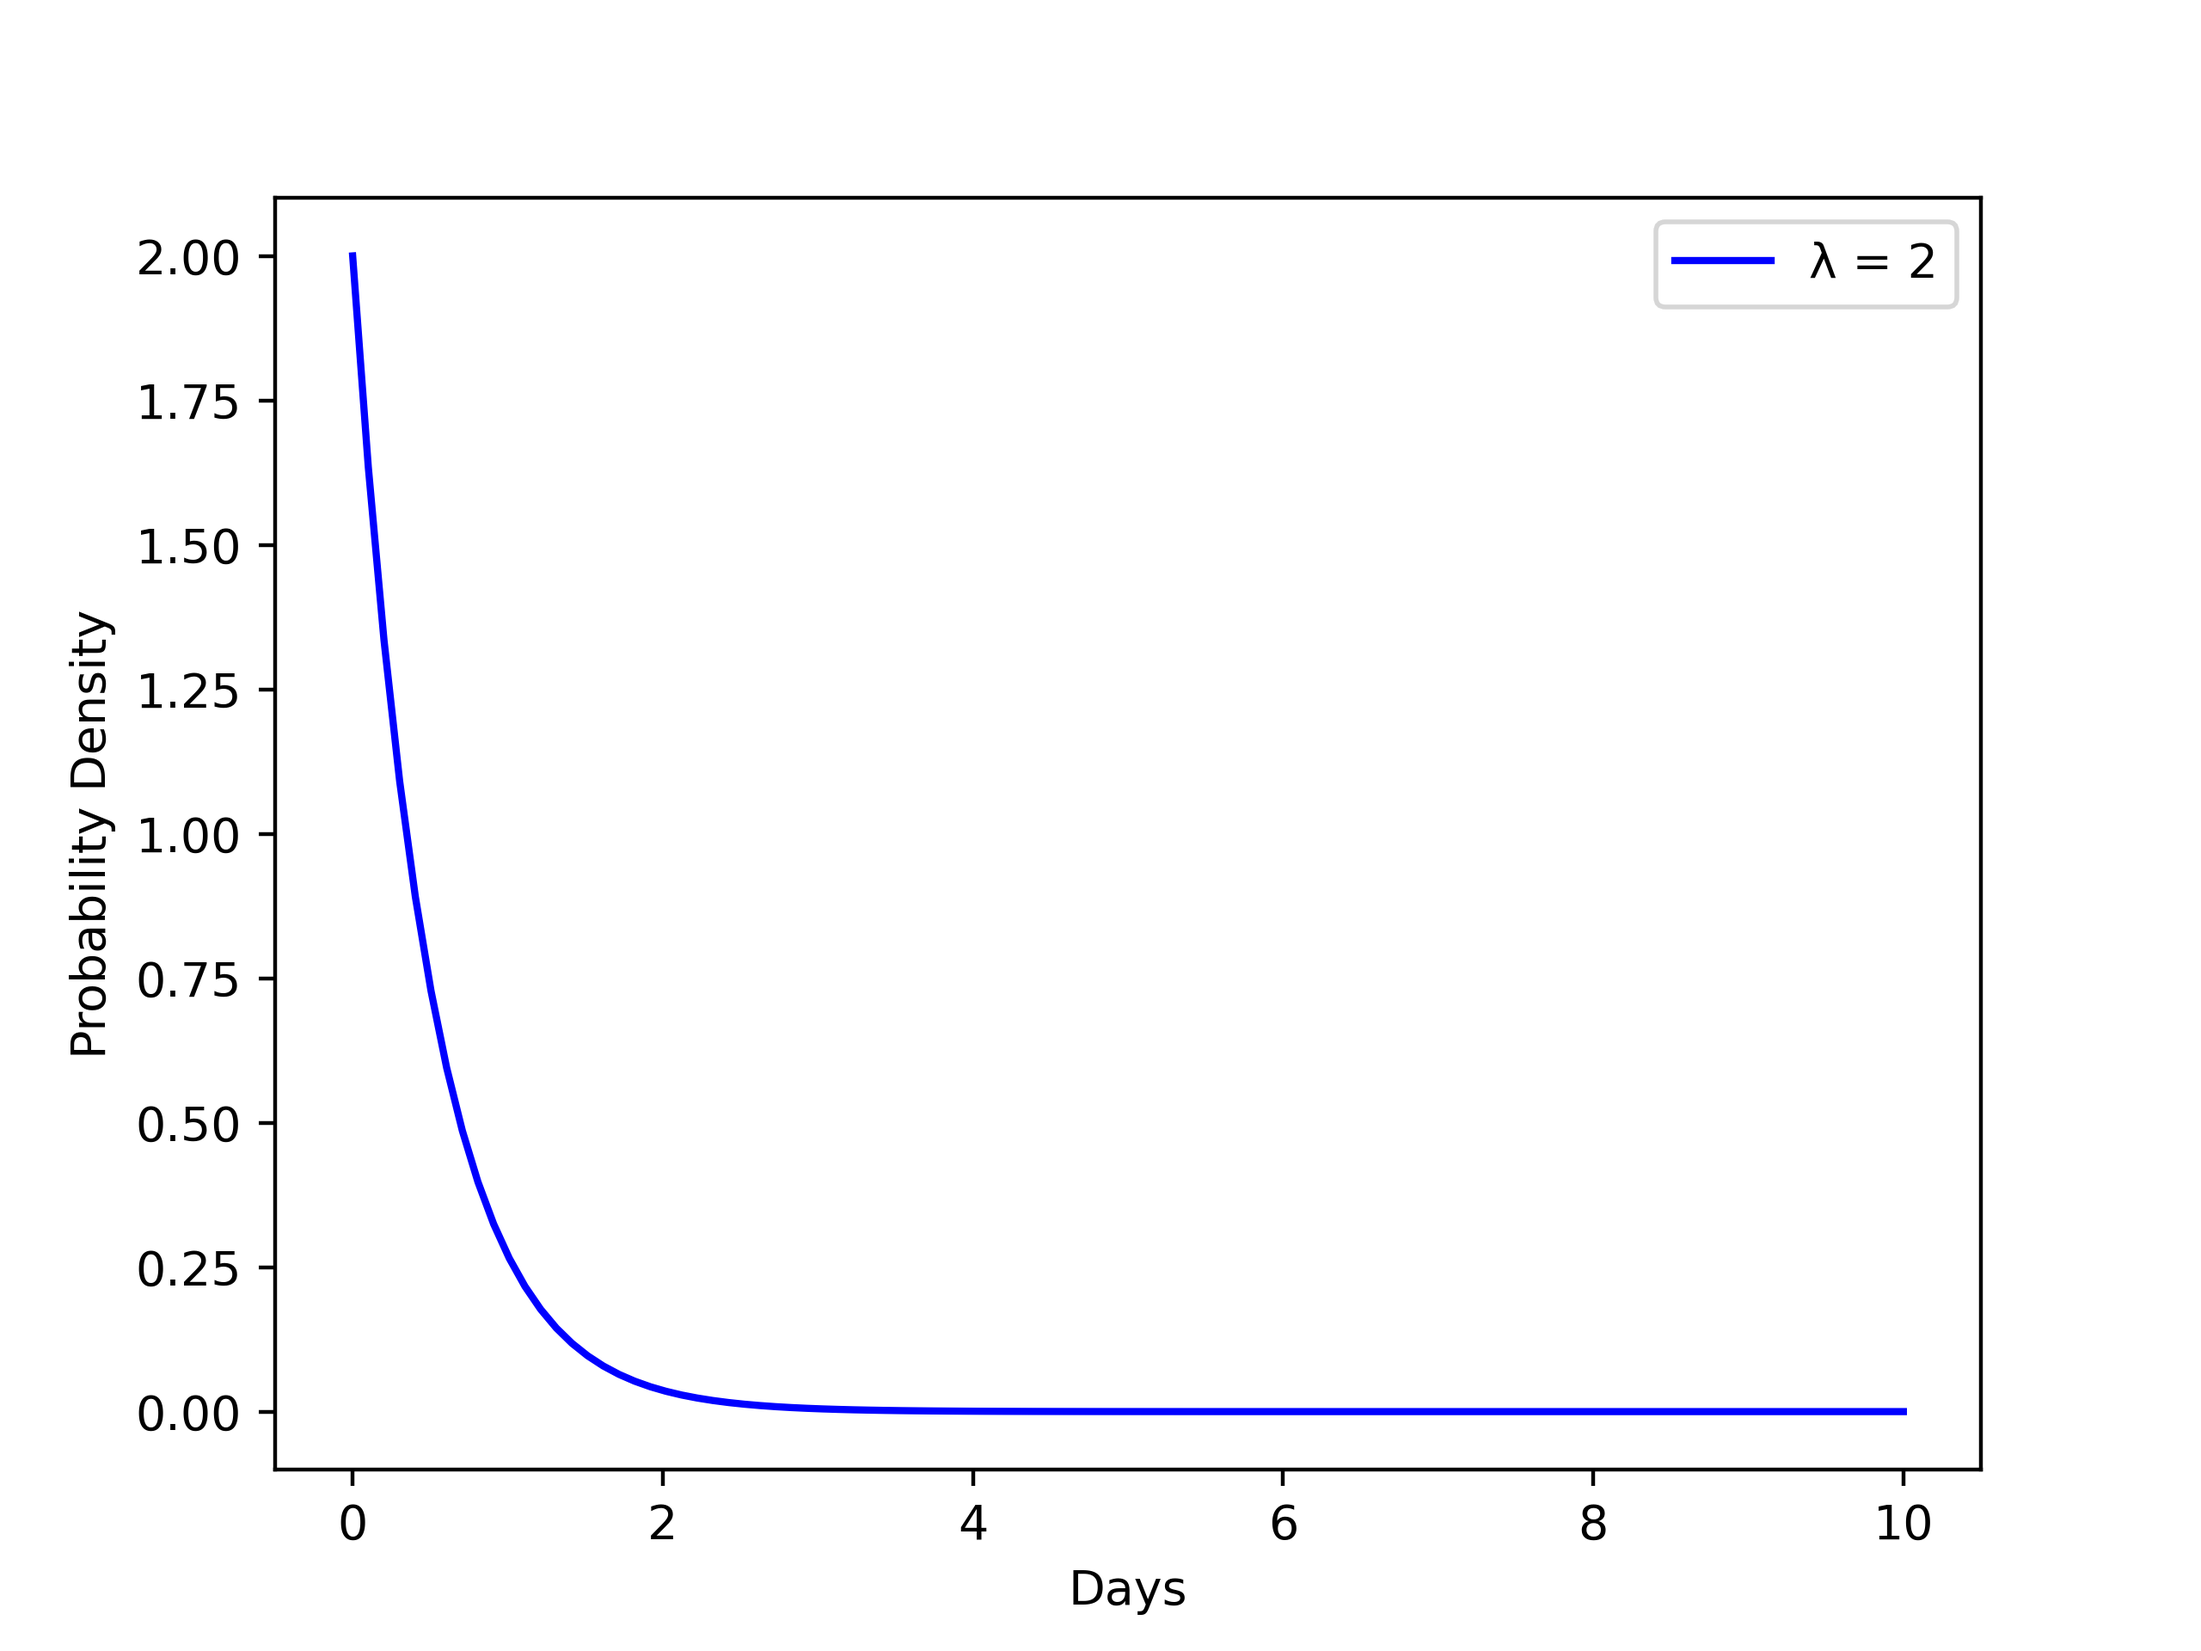
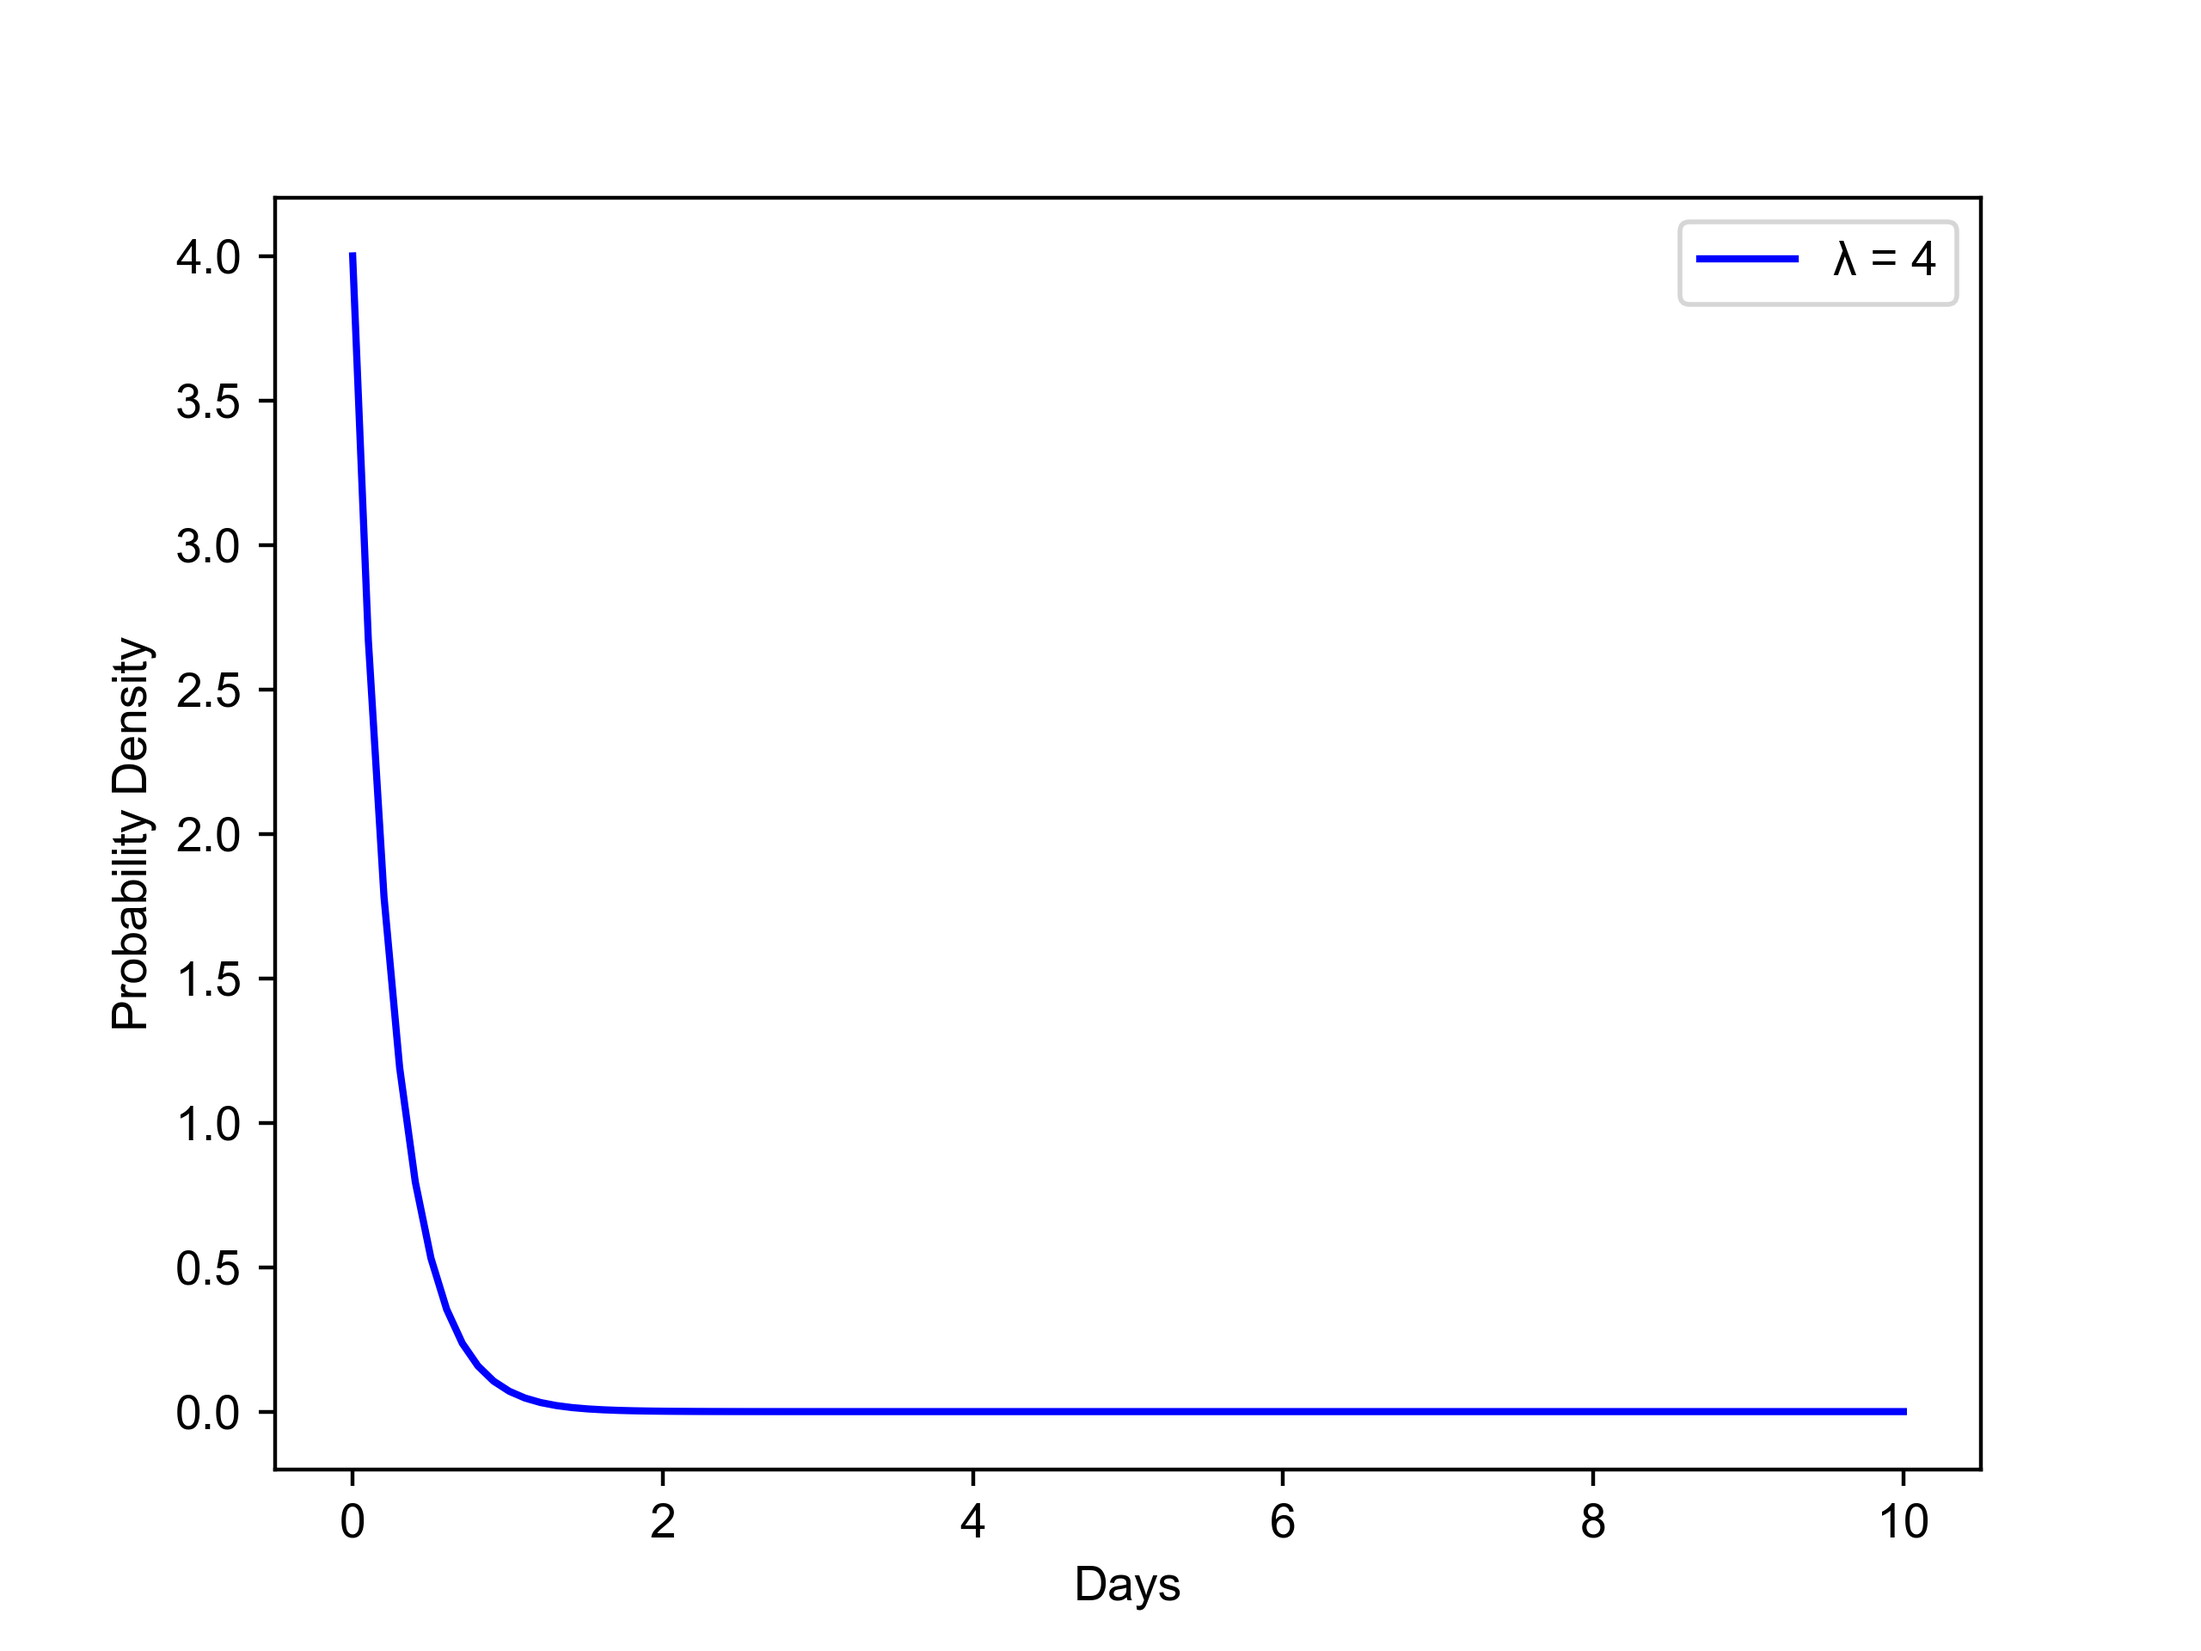
backup 2

diff --git a/plot.py b/plot.py
@@ -1,11 +1,13 @@
 import matplotlib.pyplot as plt
 import numpy as np
+import matplotlib
 from parameters import Parameter as Param
 from simulator import  AirlineRmSimulation as Sim
 from scipy.interpolate import make_interp_spline
 
 class AirlineRmPlotting:
     def plot_ttl_revenue(routes):
+        matplotlib.rcParams['font.family'] = 'Arial'
         confirm_prob_range = [0.2, 0.4, 0.6, 0.8, 1]
         confirm_prob_color = ["grey", "green", "red", "blue", "orange"]
         # Simulate with different confirm prob
@@ -35,6 +37,7 @@ class AirlineRmPlotting:
         plt.savefig("assets/pictures/result.png")
 
     def plot_exponential_distribution(lmbda):
+        matplotlib.rcParams['font.family'] = 'Arial'
         x = np.linspace(0, 10, 100)
         pdf = lmbda * np.exp(-lmbda * x)
 
@@ -48,6 +51,7 @@ class AirlineRmPlotting:
         plt.savefig("assets/pictures/exponential_dist.png")
 
     def plot_price_change():
+        matplotlib.rcParams['font.family'] = 'Arial'
         y_initial = 100
         x_interval = 7
         y_increment = 5

diff --git a/parameters.py b/parameters.py
@@ -1,6 +1,6 @@
 class Parameter:
     num_days = 365  # Number of days to simulate
-    pax_inter_time = 0.5
+    pax_inter_time = 2
     decision_inter_time = 0.25
     freq_set_price = 0.5
     ticket_time_limit = 7

diff --git a/main.py b/main.py
@@ -9,4 +9,4 @@ def main():
     AirlineRmPlotting.plot_ttl_revenue(routes)
 
 if __name__ == "__main__":
-    AirlineRmPlotting.plot_price_change()
+    AirlineRmPlotting.plot_exponential_distribution(4)
